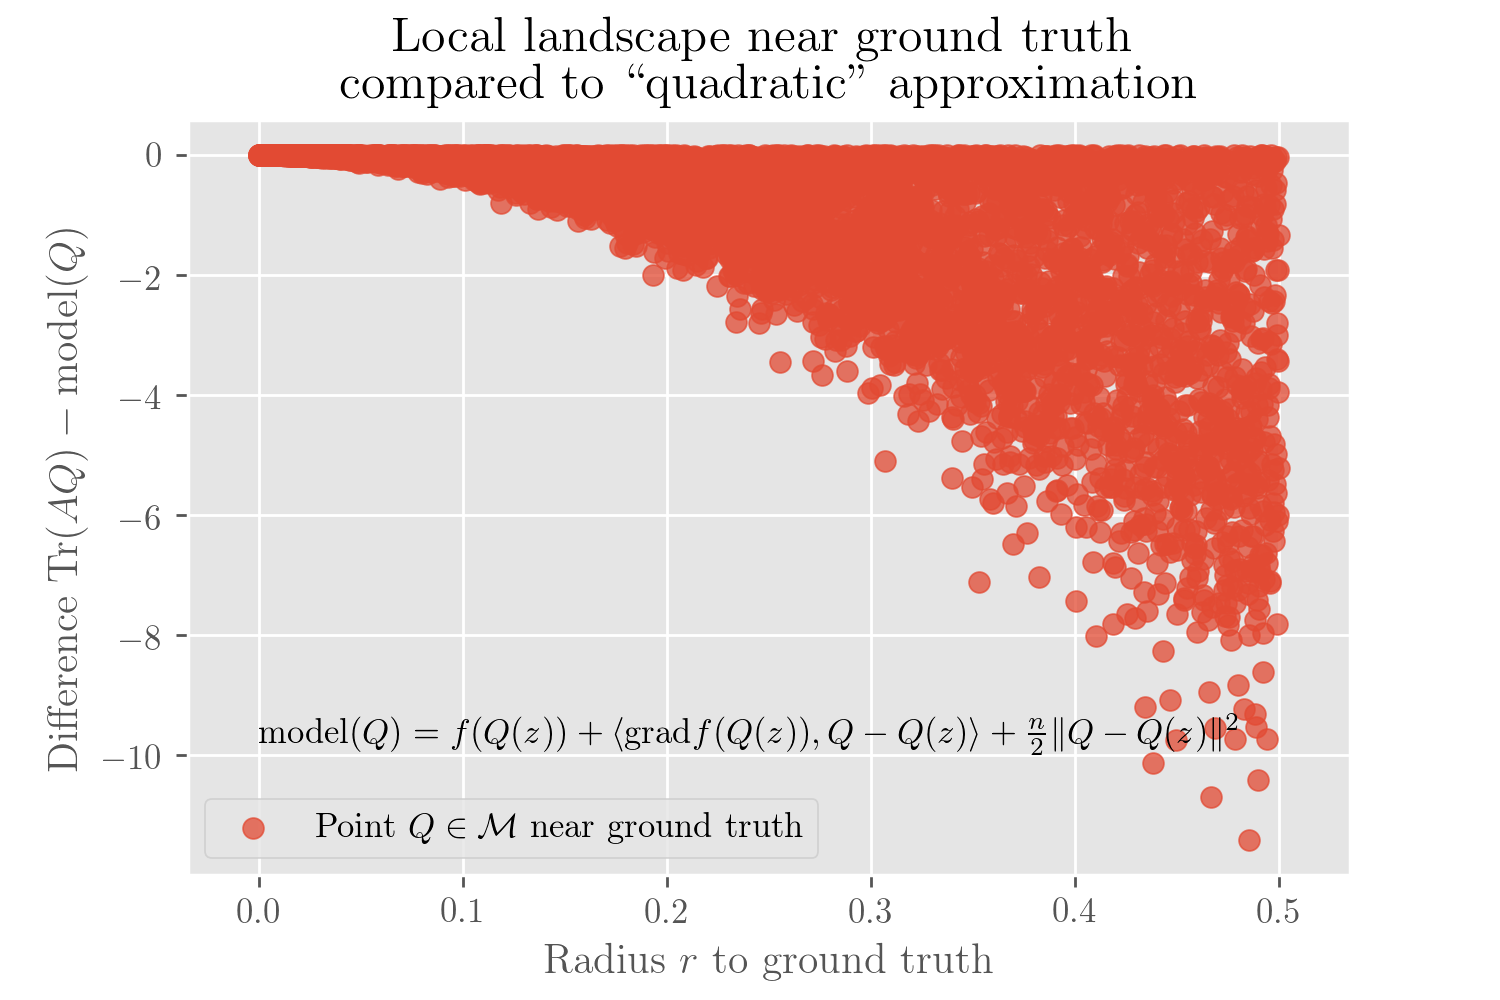
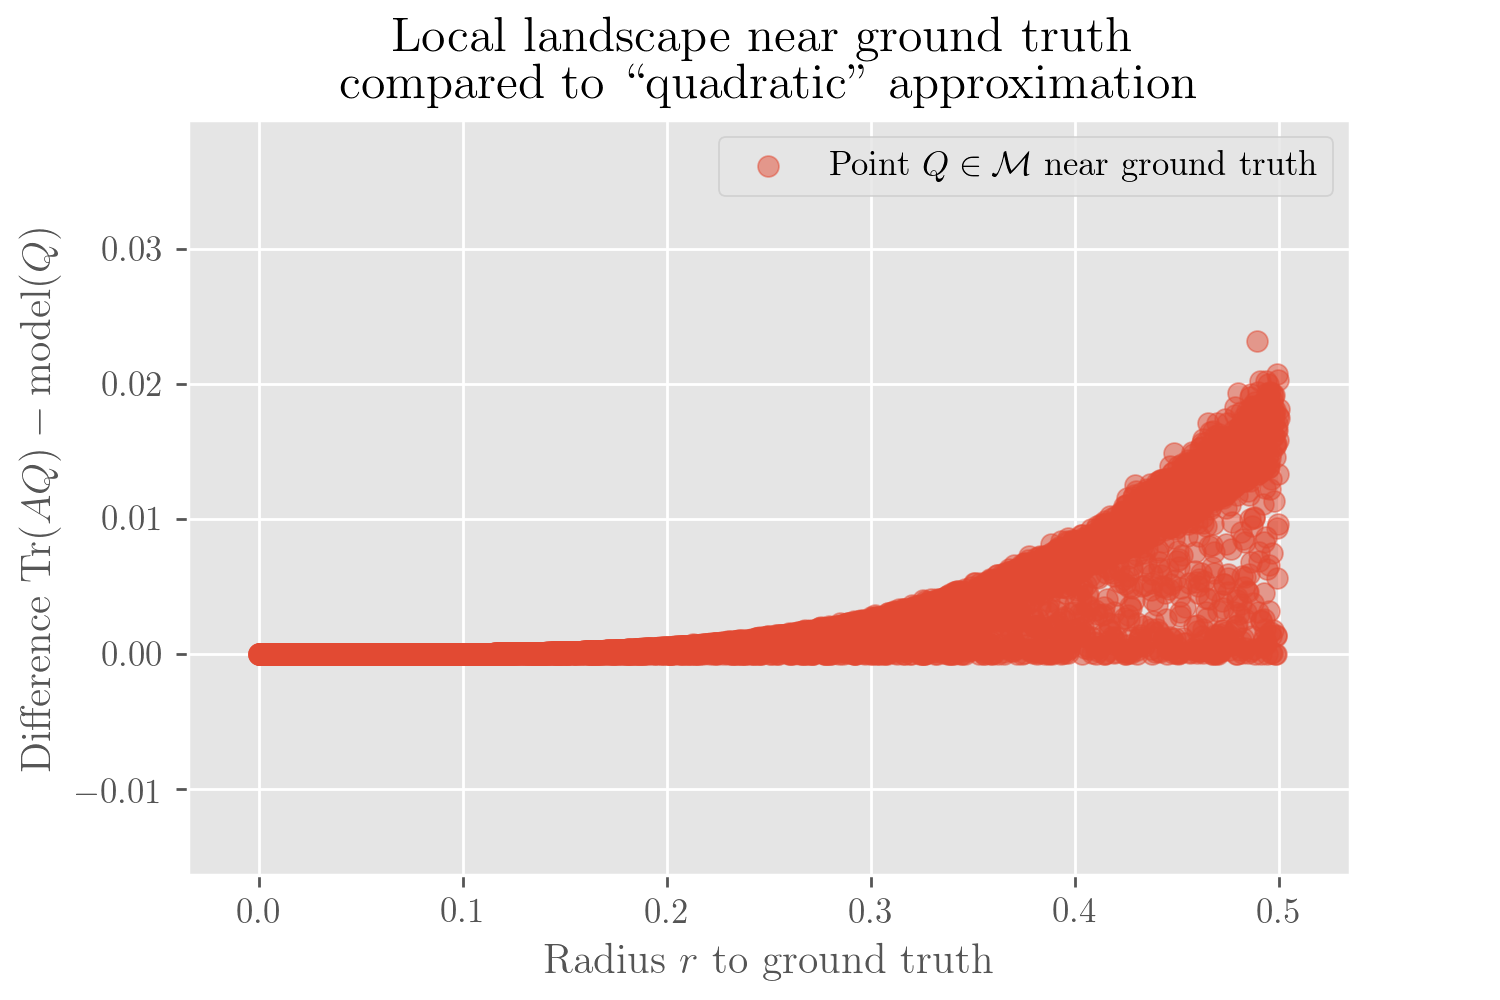
add documentations

diff --git a/basin_of_attraction.py b/basin_of_attraction.py
@@ -1,7 +1,7 @@
 import spectral_gap_analysis as sp
-import burer_monteiro as bm
 import numpy as np
 from matplotlib import pyplot as plt
+import noise_generator as gen
 
 
 def landscape(A, z, max_radius):
@@ -34,7 +34,7 @@ def pred_val(A, ground_truth, point):
     dim = A.shape[0]
     grad = A.dot(ground_truth)
     distance = point - ground_truth
-    return func_val(A, ground_truth) + np.sum(grad * distance) + dim / 2 * np.linalg.norm(distance)**2
+    return func_val(A, ground_truth) + np.sum(grad * distance) - dim / 2 * np.linalg.norm(distance)**2
 
 
 def draw_landscape(info):
@@ -45,11 +45,14 @@ def draw_landscape(info):
     plt.style.use('ggplot')
     plt.rc('text', usetex=True)
     plt.rc('font', family='serif')
-    plt.scatter(radius_arr, diff_arr, alpha=0.75, label=r'Point $Q\in\mathcal{{{M}}}$ near ground truth')
-    plt.title(r'Local landscape near ground truth\\ compared to ``quadratic" approximation')
+    plt.scatter(radius_arr, diff_arr, alpha=0.5,
+                label=r'Point $Q\in\mathcal{M}$ near ground truth')
+    plt.title(
+        r'Local landscape near ground truth\\ compared to ``quadratic" approximation')
     plt.xlabel(r'Radius $r$ to ground truth')
-    plt.ylabel(r'Difference $\mathrm{{{Tr}}}(AQ) -\mathrm{{{model}}}(Q)$')
-    plt.text(0, -10, r'$\mathrm{{{model}}}(Q)=f(Q(z))+\langle\mathrm{{{grad}}}f(Q(z)),Q-Q(z)\rangle+\frac{{{n}}}{{{2}}}\|Q-Q(z)\|^2$')
+    plt.ylabel(r'Difference $\mathrm{Tr}(AQ) -\mathrm{model}(Q)$')
+    plt.text(
+        0, -8, r'$\mathrm{model}(Q)=f(\bar Q(z))+\langle\mathrm{grad}f(\bar Q(z)),Q-\bar Q(z)\rangle-\frac{n}{2}\|Q-\bar Q(z)\|^2$')
     plt.legend()
     plt.savefig('local landscape.png', dpi=250)
     plt.close('all')
@@ -58,10 +61,28 @@ def draw_landscape(info):
 def get_observation(n, level, noise_type):
     """Obtain an observation and ground truth from certain type of perturbation."""
 
-    if noise_type == 'positive':
+    if noise_type == 'positive-rows':
         z = np.ones(n).reshape((-1, 1))
         ground_truth = z.dot(z.T)
         N = sp._gen_row_mat(n, level)
+        N = N - np.diag(np.diag(N))
+        A = ground_truth + N
+    elif noise_type == 'positive-sparse':
+        z = np.ones(n).reshape((-1, 1))
+        ground_truth = z.dot(z.T)
+        N = sp._gen_sparse_mat(n, level)
+        N = N - np.diag(np.diag(N))
+        A = ground_truth + N
+    elif noise_type == 'positive-uniform':
+        z = np.ones(n).reshape((-1, 1))
+        ground_truth = z.dot(z.T)
+        N = gen.uniform_noise(n, level) + level
+        N = N - np.diag(np.diag(N))
+        A = ground_truth + N
+    elif noise_type == 'uniform':
+        z = np.ones(n).reshape((-1, 1))
+        ground_truth = z.dot(z.T)
+        N = gen.uniform_noise(n, level)
         N = N - np.diag(np.diag(N))
         A = ground_truth + N
     return A, z
@@ -105,7 +126,8 @@ def get_nearby_pt(ground_truth, distance):
 
     dim = ground_truth.shape[0]
     # generate a vector on tangent plane as a direction
-    tangent = np.hstack((ground_truth[:, 1].reshape((-1, 1)), ground_truth[:, 0].reshape((-1, 1))))
+    tangent = np.hstack((ground_truth[:, 1].reshape(
+        (-1, 1)), ground_truth[:, 0].reshape((-1, 1))))
     # create a direction orthogonal to the one above (that gives 0 eigenvalue)
     direction = np.random.random_sample(dim)
     direction = direction - np.mean(direction)
@@ -121,6 +143,6 @@ def get_nearby_pt(ground_truth, distance):
 
 
 if __name__ == '__main__':
-    A, z = get_observation(10, 10, 'positive')
+    A, z = get_observation(10, 10, 'positive-sparse')
     info = landscape(A, z, max_radius=.5)
     draw_landscape(info)

diff --git a/aux.py b/aux.py
@@ -2,12 +2,19 @@ import numpy as np
 
 
 def rounding_with_prob(vec, p):
+    """Rounds a vector to 0 and 1 according to the value of its entries,
+       with threshold p. If vec is a vector uniformly generated from 0 and 1
+       then p indicates the probility of being 1.
+    """
+
     for index in range(vec.size):
         vec[index] = vec[index] < p
     return vec
 
 
 def demean(A, p, q):
+    """Demeans a SBM observation by generating probability."""
+
     n, _ = A.shape
     one_vector = create_one_vector(n)
     A_bm = A - (p + q) / 2 * (one_vector.dot(one_vector.T))
@@ -16,6 +23,8 @@ def demean(A, p, q):
 
 
 def demean_adversary(V):
+    """Demeans an observation for every row according to its mean."""
+
     n, _ = V.shape
     col_sum = np.sum(V, axis=1).reshape(-1, 1)
     one_vector = create_one_vector(n)
@@ -25,10 +34,16 @@ def demean_adversary(V):
 
 
 def create_one_vector(n):
+    """Generates a column vector of 1."""
+
     return np.ones(n).reshape((-1, 1))
 
 
 def laplacian_eigs(Y, z):
+    """Returns the eigenvalues of the Laplacian like form of Y as a column
+       vector from small to large.
+    """
+
     compo = (np.diag(z.ravel()).dot(Y)).dot(np.diag(z.ravel()))
     D = np.diag(np.sum(compo, axis=1))
     L = D - Y
@@ -40,12 +55,16 @@ def laplacian_eigs(Y, z):
 
 
 def laplacian(Y):
+    """Returns a Laplacian like matrix by using the trivial summation of rows."""
+
     D = np.diag(np.sum(Y, axis=1))
     L = D - Y
     return L
 
 
 def normalize(vec):
+    """Normalizes a vector."""
+
     norm = np.linalg.norm(vec)
     if norm == 0:
         return vec
@@ -53,10 +72,14 @@ def normalize(vec):
 
 
 def sorted_eigenvalues(S):
+    """Returns sorted eigenvalues of matrix S from small to large as a column vector."""
+
     return np.sort(np.linalg.eigvals(S)).reshape((-1, 1))
 
 
 def error_rate(labels, true_labels):
+    """Returns the error rate of the guess compared to true labels up to global flip."""
+
     diff1 = labels - true_labels
     diff2 = labels + true_labels
     rate1 = np.linalg.norm(diff1, 1) / 2 / labels.shape[0]

diff --git a/monotone_adversaries.py b/monotone_adversaries.py
@@ -5,6 +5,10 @@ import sync_generator as gen
 
 
 def monotone_random(Y, delta):
+    """Returns an observation after application of a random monotone adversary
+       with probability that depends on delta.
+    """
+
     n, _ = Y.shape
     prob = delta * log(n) / n
     indicator = False
@@ -43,6 +47,10 @@ def monotone_random(Y, delta):
 
 
 def monotone_hub(Y, portion):
+    """Returns an observation after application of a monotone adversary
+       that add a constant portion of edges to a node.
+    """
+
     n, _ = Y.shape
     indicator = False
     diagnal = np.diag(Y)
@@ -68,6 +76,10 @@ def monotone_hub(Y, portion):
 
 
 def monotone_sync(n, percentage, snr, noise_deviation, generator=gen.synchronization_normalized):
+    """Returns an observation after application of a monotone adversary
+       for certain synchronization matrix generator.
+    """
+    
     Y, z = generator(n, percentage, snr)
     Y_sync = Y.copy()
     Z = z.dot(z.T)

diff --git a/sync_generator.py b/sync_generator.py
@@ -4,6 +4,8 @@ import aux
 
 
 def _synchronization(n, percentage, snr):
+    """Returns an observation for synchronization with certain SNR."""
+
     z = aux.rounding_with_prob(np.random.random_sample(n), percentage)
     z = 2 * z.reshape(n, 1) - 1
     ground_truth = z.dot(z.T)
@@ -16,6 +18,8 @@ def _synchronization(n, percentage, snr):
 
 
 def synchronization_normalized(n, percentage, snr):
+    """Returns a normalized observation for synchronization."""
+    
     Y, z = _synchronization(n, percentage, snr)
     Y_normalized = snr / n * Y
     print('Observed Z2 synchronization matrix (normalized) is generated!')
@@ -23,6 +27,8 @@ def synchronization_normalized(n, percentage, snr):
 
 
 def synchronization_usual(n, percentage, snr):
+    """Returns an observation for synchronization."""
+
     print('Observed Z2 synchronization matrix (usual) is generated!')
     return _synchronization(n, percentage, snr)
 

diff --git a/benchmarks.py b/benchmarks.py
@@ -6,6 +6,11 @@ import aux
 
 
 def spectral_gap_increase(n, percentage, snr, noise_deviation):
+    """Returns the spectral gap increase after the application of monotone
+       adversary. (This version is NOT quite right)
+    """
+
+    # TODO: modify this function, which should only depend on ground truth.
     Y_adv, Y_sync, z = mono.monotone_sync(n, percentage, snr, noise_deviation)
     S_sync = dual_feasibility(Y_sync)
     S_adv = dual_feasibility(Y_adv)
@@ -16,6 +21,10 @@ def spectral_gap_increase(n, percentage, snr, noise_deviation):
 
 
 def dual_feasibility(Y):
+    """Returns the dual gap matrix of local optimizer after solving the problem
+       to see if it is the optimizer of corresponding SDP problem.
+    """
+
     Q = bm.augmented_lagrangian(Y, 2)
     X = Q.dot(Q.T)
     S = np.diag(np.diag(Y.dot(X))) - Y

diff --git a/sbm_generator.py b/sbm_generator.py
@@ -4,6 +4,8 @@ import aux
 
 
 def _stochastic_block_model(n, p, q):
+    """Generate a SBM observation with inner and inter cluster probability."""
+
     z_sbm = np.hstack(
         (np.ones(int(n / 2)), -np.ones(int(n / 2)))).reshape(n, 1)
     R1_vec = aux.rounding_with_prob(
@@ -28,6 +30,8 @@ def _stochastic_block_model(n, p, q):
 
 
 def sbm_logarithm(n, a, b):
+    """Returns an observation with logarithmic regime."""
+
     p = a * log(n) / n
     q = b * log(n) / n
     Y, z_sbm = _stochastic_block_model(n, p, q)
@@ -36,6 +40,8 @@ def sbm_logarithm(n, a, b):
 
 
 def sbm_linear(n, a, b):
+    """Returns an observation with linear regime."""
+    
     p = a / n
     q = b / n
     Y, z_sbm = _stochastic_block_model(n, p, q)

diff --git a/noise_generator.py b/noise_generator.py
@@ -2,6 +2,8 @@ import numpy as np
 
 
 def uniform_noise(n, level):
+    """Generate a uniform noise with mean being the given level."""
+    
     ran = np.random.uniform(-level, level, (n, n))
     ran = ran - np.diag(np.diag(ran))
     ran = np.triu(ran) + (np.triu(ran)).T

diff --git a/sdp.py b/sdp.py
@@ -5,6 +5,8 @@ import aux
 
 
 def sdp_relaxation(Y, z, printing=False):
+    """SDP solver of the observation Y and ground truth z."""
+    
     if printing:
         print('Solving sdp relaxation problem...')
     n, _ = Y.shape
